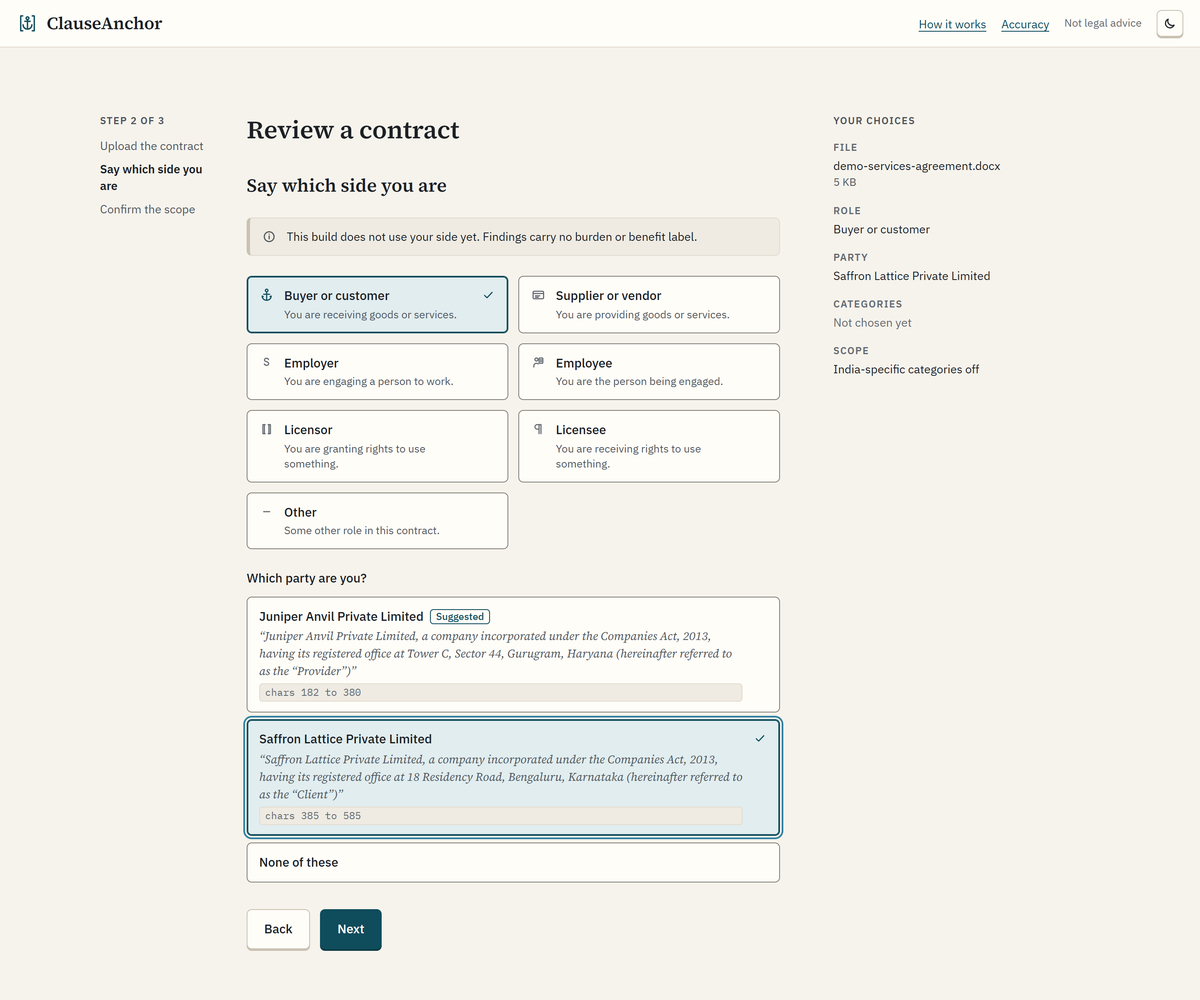
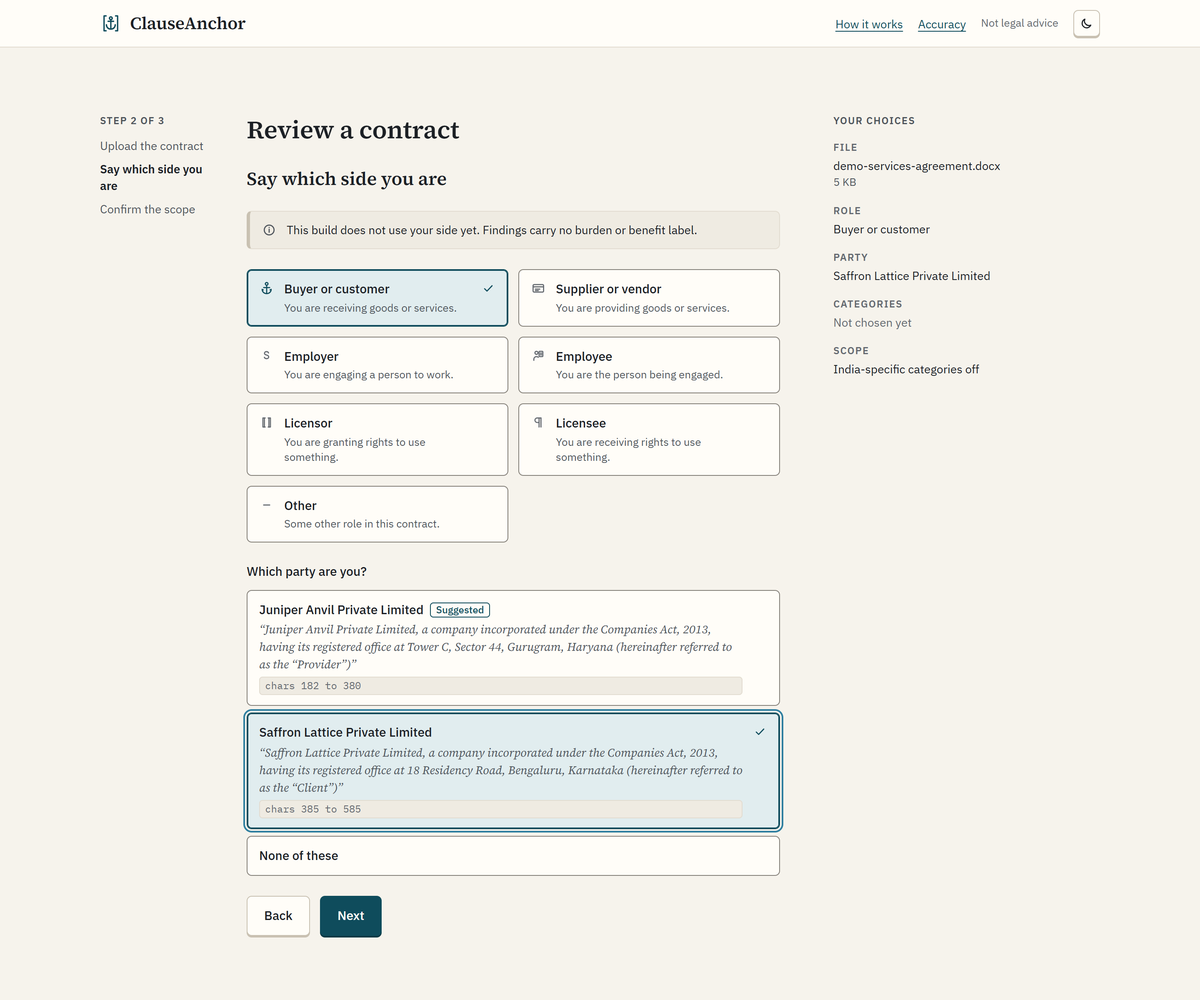
docs: retake the live README shots and record the deploy
Retake start, reader and reader-review from the redeployed app, update their alt text and captions, and record the image, the update and the scale rule Azure reports.

diff --git a/docs/app/BuildLog.md b/docs/app/BuildLog.md
@@ -4658,3 +4658,72 @@ Four, each by area, so no file lands in the wrong one (the first session's work 
 4. `docs: retake the README screenshots after the UI pass`, body `Retake landing and the social preview, add how-it-works, fix the counts.` Files: `README.md` and five images under `docs/assets/readme/`.
 
 Next action: Aryan runs the four commits in that order, then the image workflow and `az containerapp update` with the new SHA, then retakes the `start`, `reader` and `reader-review` shots against the redeployed app.
+
+## 2026-11-24: Part 4-B.3 close, the redeploy record and the live README shots
+
+Aryan's brief (`.handoff/live_retake_prompt.md`): retake the `start`, `reader` and `reader-review` shots against the redeployed app, update the README text for them, record what Azure reports for the scale rule, and record the deploy. `ml/`, `docs/ml/`, `backend/` and `frontend/` are unchanged. No `az` command ran, the live app was not changed, and the capture's upload was deleted at the end of its run.
+
+### Start
+
+- `git status --short` printed nothing and `git log --oneline -6` began at `5beecc9`, which is HEAD (`5beecc969c0b94ada4fe94eb59ce6e4291a656d1`), pushed. That matched the brief.
+- Before the launch I read `capture.mjs` and checked its page selectors against the redesigned sources (the step titles, the Start review button, the "24 of 46 selected" count, the category rows, the confirm dialog's Delete contract). The Next button was not read in the source, and the run showed it works. The Start summary aside is `hidden xl:block`, and the capture viewport is 1440 wide, so it shows. The script always took every live shot, so I added one flag.
+
+### What changed
+
+- `.handoff/readme_demo/capture.mjs` (ignored by git): `--reader-only` skips `landing`, `how-it-works` and the social preview and takes only `start`, `reader` and `reader-review`. It still loads the landing page first, which proves the new interface is up.
+- `docs/assets/readme/`: `start`, `reader` and `reader-review`, each in light and dark, retaken from the live app. The five other files have the same SHA-256 hashes before and after the run.
+- `README.md`: the alt text and caption of the three shots. The README carried no note about old shots, so none was removed.
+- `deploy/azure-containerapp.yaml`: a comment beside the scale rule. The rule itself is as Aryan created the app from it.
+- `docs/app/Architecture.md` (section 8.1, "Where it runs") and `docs/app/Deploy.md` (step 4): the same statement of what Azure reports.
+- `docs/app/Phases.md`: a "Deployed and retaken" paragraph under 4-B.3, the 4-B.1 retake item closed, and the 4-B.3 still-open line.
+- Not touched, because they are outside the brief: `FrontendDesign.md` 17.9, `SystemAudit.md`, and the earlier 4-B.3 entry above (history stays).
+
+### The deploy, as Aryan reported it from Cloud Shell
+
+None of this was measured here.
+
+- Image `ghcr.io/themegalodon55681/clauseanchor:5beecc969c0b94ada4fe94eb59ce6e4291a656d1`. The workflow reported 1672 MiB on disk and a peak of 1025 MiB of 4096, file cache included.
+- `az containerapp update` returned `provisioningState: Succeeded` and `runningStatus: Running`, revision `clauseanchor--latest`, 2 vCPU, 4Gi, `ephemeralStorage` 8Gi, the same startup and liveness probes, minReplicas 0, maxReplicas 1.
+- `/api/v1/ready` answered 200 on the first try. `/samples/fictional-services-agreement.docx` answered `HTTP/2 200` with `content-type: application/vnd.openxmlformats-officedocument.wordprocessingml.document`. `/` returned the page titled ClauseAnchor.
+- Scale rule: Azure reports name `http-scaler` and an empty `concurrentRequests`. The spec, `Architecture.md` and `Deploy.md` said `http-scale` at 10. With a maximum of 1 replica the rule only wakes the app from zero. The docs do not say why Azure reports it this way, because that is not known.
+
+### The retake
+
+- `node .handoff/readme_demo/capture.mjs --reader-only`, one run, one launch, with Aryan's approval. `/api/v1/ready` answered 200 at 0 s (the app was awake). The fictional agreement uploaded, the 24-category review finished after 89 s, and the run took 107 s in all. Both DELETE requests answered 204. Console errors: 0.
+- Sizes: `start` 312,136 (dark) and 309,475 (light) bytes, `reader` 693,917 and 690,706, `reader-review` 585,583 and 584,554. The folder holds 11 files and 4,863,387 bytes, the largest 693,917.
+- Every new image was opened. Each shows the new interface, and none shows a loading or cold-start screen, an error, or cut-off content. Only the fictional agreement appears. `start` is step 2 of 3 with Buyer or customer and Saffron Lattice Private Limited selected, and the summary beside it lists the file, role, party, categories and scope. `reader` is Non-Compete, passage 1 of 2, characters 3124 to 3336. `reader-review` is Governing Law, clause 10.1, characters 5804 to 5852, which is 48 characters, the length of the quoted sentence. Both Reader shots show Needs a lawyer and Confidence not validated.
+- Seen and left alone: the Reader band reads "Processing incomplete" and "Some categories could not be finished. They are listed as Unavailable.", while the count beside it says 24 need a lawyer and none is Unavailable. The 10 November shots had the same band. I did not look into the cause and changed nothing.
+
+### Reviews
+
+- Jury of two readings, one verdict. Recruiter at 30 seconds: the captions carry the message (24 categories reviewed, all Needs a lawyer, none Found, offsets quoted; a side and a party that this build does not use yet). The alt text is not on screen, so the captions have to stand alone, and they do. Miss: the "Processing incomplete" band sits next to a count that shows nothing Unavailable. Frontend engineer, checking each alt text and caption against its image: seven roles, two detected parties, the step list, the summary items, the 24 and 0 counts, the amber note, clause 10.1 and both offset pairs all match what is drawn. Same miss. Verdict: ship, with the band recorded and not changed.
+- Over-engineering review of the diff: two cuts applied to the new `Phases.md` paragraph (a guess about what the two DELETE requests were, and a wrong pointer to where the old-shots note lived). Kept: the flag as one `if` around the three shots (the smallest change that skips them), and the paragraph itself, because the brief asks for each fact in it.
+- The copy passes (copywriting, copy-editing, stop-slop) ran in that order over the six README strings. Long clauses became short sentences, "are picked" became "you pick", the 24-category count and the amber note were added, and each caption now says what its image shows.
+
+### Checks
+
+| Check | Result |
+|---|---|
+| Attribution scrub (Rules section 1, as written) | no output. The same pattern over `README.md` and `deploy/azure-containerapp.yaml`: no output |
+| Tool-name grep | no output on the README, the backend, the spec file and the lines added to the docs outside this file |
+| Dash scan, U+2010 to U+2015 and U+2212 | control file: 1 hit. 0 hits on `README.md`, the spec file, `Architecture.md`, `Deploy.md`, `Phases.md` and `capture.mjs`, and 0 on this file after the entry was written |
+| Backend tests that read the docs (`test_docs.py`, `test_catalogue.py`, `test_real_catalogue.py`, `test_openapi_export.py`, `test_frontend.py`) | 71 passed, 1 warning |
+| Full backend and frontend suites | not run, because nothing under `backend/` or `frontend/` changed |
+
+Line ends: LF in `README.md`, `Deploy.md` and the spec file, CRLF in `BuildLog.md`, `Phases.md` and `Architecture.md`. Each edit kept its file's ending.
+
+### Processes
+
+- One headless Edge launch with a fresh throwaway profile under `.handoff/readme_demo/`, extensions and sync off, and no local server. 18 processes started and 18 closed (through the DevTools close, none left), and the profile folder was removed. The ledger is `.handoff/readme_demo/ledger.txt`. Aryan's own 11 Edge processes were running before and after, and none is in the ledger.
+- `node --check`, `pytest` and the greps ran in the foreground and exited by themselves. Git was read-only: `status`, `diff`, `log` and `check-ignore`.
+
+### Not changed, and still open
+
+- Still open from 17.9, unchanged: browser proof for the two kinds of axe result that need review (the highlight marks, and the footer at 375), and the hero's height across the three examples and layout shift for input-driven changes, neither measured.
+- Left as written, outside the brief: `SystemAudit.md` section 9 still says none of the UI pass was seen against the live server and calls the rule "the 10 request scale rule" (lines 323, 372 and 409), and the "README shots" paragraph at the end of `FrontendDesign.md` 17.9 still says the shots wait for the redeploy.
+
+### Suggested commit
+
+`docs: retake the live README shots and record the deploy`, body `Retake start, reader and reader-review from the redeployed app, update their alt text and captions, record the image, the update and the scale rule Azure reports.` Files: `README.md`, `deploy/azure-containerapp.yaml`, `docs/app/Architecture.md`, `docs/app/BuildLog.md`, `docs/app/Deploy.md`, `docs/app/Phases.md` and the six images `start`, `reader` and `reader-review` under `docs/assets/readme/`.
+
+Next action: Aryan reads the README on GitHub, commits, and pushes. Then 4-C.

diff --git a/docs/app/Phases.md b/docs/app/Phases.md
@@ -625,7 +625,7 @@ Needs: the frontend on the real client, and Tanishq's real analyzer and artifact
   - The landing hero fixture shows a Found Non-Compete, but the live analyzer returns only Needs a lawyer, because automatic acceptance is off (`docs/ml/ReleaseHandoff.md`). Closed in 4-B.3: every hero example reads Needs a lawyer with Confidence not validated (`FrontendDesign.md` 17.9, DU).
   - The app's Credits section and the Accuracy footer name OpenNyaya, NyayaAnumana and InLegalBERT, which the current RoBERTa-base model does not use. Closed in 4-B.3: the credits and the footer name CUAD and RoBERTa-base only.
   - `.handoff/readme_demo/capture.mjs` has an untested fix for its process query, which matched its own PowerShell. Closed in 4-B.3: the run on 24 November 2026 started 16 processes, closed 16 and left none.
-  - Retake all README screenshots after the UI pass, add `how-it-works`, and drop `accuracy` from the capture list. Closed in part in 4-B.3: `landing`, `social-preview` and `how-it-works` are retaken. `start`, `reader` and `reader-review` need the live app and wait for the redeploy.
+  - Retake all README screenshots after the UI pass, add `how-it-works`, and drop `accuracy` from the capture list. Closed in 4-B.3: `landing`, `social-preview` and `how-it-works` were retaken on 24 November 2026 from a local preview, and `start`, `reader` and `reader-review` the same day from the redeployed live app.
 - [x] **4-B.2** System audit against scale, security, cost and failure
   `docs: audit the system against scale, security, cost and failure`
   A docs part with two small fixes, after 4-B.1 (Aryan, 11 November 2026). `docs/app/SystemAudit.md` holds six audits of the system as built and deployed: the data model, security, vendor lock-in, cost, failure under a sudden spike, and completion against stability at 100 times the load. Each has a jury round (a Contrarian, a First-Principles engineer, an Attacker, an SRE and a Cost owner), a "what would break at scale" round that ran until it found nothing new, and a verdict. A triage of 20 findings (SA1 to SA20) closes the file. Nothing was installed, no server and no browser ran, the live URL was not load tested, and `ml/` and `docs/ml/` did not change. Prices and limits were read as text from Microsoft's pages and price list and from GitHub's docs on 11 November 2026, and each figure in the audit is tagged measured, cited or estimated.
@@ -667,8 +667,17 @@ Needs: the frontend on the real client, and Tanishq's real analyzer and artifact
   Numbers. Frontend tests went from 136 (after 4-B.2) to 170, and backend tests from 1,787 to 1,788. `pnpm typecheck`, `pnpm build` and `pnpm check:dist` pass (36 files, with the sample agreement in `dist/samples/`). axe: 0 violations in 110 runs (11 states at five widths in both themes). Some runs carry axe results that need review, recorded in 17.9 with their causes and the contrast tests that cover them. At 1280 the landing page is 5,129 px tall against 6,046. At 375 it is 8,038 against 7,625. Screenshots: `frontend/.screens/4-B.3/before/` (154) and `after/` (168), both ignored by git.
   Deviations from the plan, each in 17.9: the press scale on buttons is cut, a progress bar is added, the dropzone grows with a scale and not a colour change, step rows are ruled at every width, and four targets moved (the ledger's text width, the text to row edge gap, the two columns ending 78 px apart, and the dropzone to Next gap).
   Closed from earlier parts: the hero and credits items under 4-B.1 (above), SA3, SA4 and SA16 (built) and SA10 (Aryan's reading of Cost Management, in `SystemAudit.md`). SA17 is covered in part.
-  Still open after this part. Browser proof for the two kinds of axe result that need review (the highlight marks, and the footer at 375). The hero's height across the three examples, and layout shift for input-driven changes, neither measured. The `start`, `reader` and `reader-review` README shots, which wait for the redeploy. The built-in sample mode stays with 3-C.
+  Still open after this part. Browser proof for the two kinds of axe result that need review (the highlight marks, and the footer at 375). The hero's height across the three examples, and layout shift for input-driven changes, neither measured. The built-in sample mode stays with 3-C. The `start`, `reader` and `reader-review` README shots, which waited for the redeploy, are retaken (below).
   Decided by Aryan on 24 November 2026: the ledger stays at every width, 375 included (about 188 px on the 375 page), and the `SAMPLE_MODE_ONLY` message stays as it is, because it shows only when the server runs in sample mode.
+  **Deployed and retaken (24 November 2026).** The image is the build of commit `5beecc9`, and Aryan updated the live app from Cloud Shell.
+  - Image `ghcr.io/themegalodon55681/clauseanchor:5beecc969c0b94ada4fe94eb59ce6e4291a656d1`. The workflow reported 1672 MiB on disk and a peak of 1025 MiB of 4096, file cache included. The first deployment (`c26236b`) reported 1671 MiB and 1026 MiB.
+  - `az containerapp update` returned `provisioningState: Succeeded` and `runningStatus: Running`, revision `clauseanchor--latest`, 2 vCPU, 4Gi, `ephemeralStorage` 8Gi, the same startup and liveness probes, minReplicas 0 and maxReplicas 1.
+  - Three checks from Cloud Shell right after. `/api/v1/ready` answered 200 on the first try. `/samples/fictional-services-agreement.docx` answered `HTTP/2 200` with `content-type: application/vnd.openxmlformats-officedocument.wordprocessingml.document`, so the `.docx` fix reached the live site. `/` returned the page titled ClauseAnchor.
+  - The scale rule. Azure reports it as name `http-scaler` with `concurrentRequests` empty. `deploy/azure-containerapp.yaml`, `Architecture.md` section 8.1 and `Deploy.md` step 4 named it `http-scale` at 10 concurrent requests. The spec stays as it was created from, and each of the three files now records what Azure reports. With a maximum of 1 replica the rule only wakes the app from zero. Why Azure reports it this way is not known.
+  - README shots. `node .handoff/readme_demo/capture.mjs --reader-only` ran once, with Aryan's approval for that one launch. The flag is new: it skips `landing`, `how-it-works` and `social-preview`, and those five files have the same hashes after the run. `/api/v1/ready` answered 200 on the first poll, because the app was awake. The run uploaded the fictional agreement, reviewed 24 categories in 89 seconds and took `start` (step 2 of 3), `reader` (Non-Compete, passage 1 of 2, characters 3124 to 3336) and `reader-review` (Governing Law, characters 5804 to 5852), each in light and dark. It then deleted the document, and both DELETE requests answered 204. Console errors: 0. Processes: 18 started, 18 closed, none left, and Aryan's own 11 Edge processes were running before and after.
+  - The six new files are 312,136 and 309,475 bytes (`start`, dark and light), 693,917 and 690,706 (`reader`) and 585,583 and 584,554 (`reader-review`). `docs/assets/readme/` holds 11 files and 4,863,387 bytes, and no file is over 1 MB. Each image was opened and checked: the new interface, no loading or cold-start screen, no error, nothing cut off, and only the fictional agreement. The Reader shots show Needs a lawyer and Confidence not validated. The README alt texts and captions of the three shots were rewritten to match. The README carried no note about old shots, so none was removed.
+  - Seen and left alone. The Reader band reads "Processing incomplete" and "Some categories could not be finished. They are listed as Unavailable.", while the count beside it says 24 need a lawyer and none is Unavailable. The 10 November shots carried the same band (status partial). Its cause was not examined, and nothing changed.
+  - Still open from 17.9, unchanged. Browser proof for the two kinds of axe result that need review (the highlight marks, and the footer at 375). The hero's height across the three examples, and layout shift for input-driven changes, neither measured.
 - [ ] **4-C** End-to-end check on a public contract, CPU benchmark
   `test(backend): add end-to-end review check and CPU benchmark`
   4-C1 took the adapter, the swap and the `dist` check out of this part, and decided R17 (one origin, no CORS). The paragraphs below stay as the record of what the adapter had to change. What 4-C still owns: R6, the CPU benchmark, and the eight scope cases with the real model.

diff --git a/README.md b/README.md
@@ -52,11 +52,11 @@ The app scales to zero, so the first visit after a quiet spell takes 1 to 3 minu
   <a href="https://clauseanchor.icystone-c7631062.centralindia.azurecontainerapps.io/">
     <picture>
       <source media="(prefers-color-scheme: dark)" srcset="docs/assets/readme/reader-dark.png">
-      <img src="docs/assets/readme/reader-light.png" alt="ClauseAnchor Reader on a fictional services agreement: the Non-Compete category selected, passage 1 of 2 quoted from the contract at characters 3124 to 3336 under a Needs a lawyer label with Confidence not validated, the contract sheet with underlined passages and a findings ruler beside it, and the category list on the left" width="95%">
+      <img src="docs/assets/readme/reader-light.png" alt="ClauseAnchor Reader on the fictional file demo-services-agreement.docx after a review of 24 categories. The left column holds a scope note, a count of 0 found and 24 that need a lawyer, and the category list. The contract sheet shows underlined passages with a findings ruler beside it. The detail panel shows Non-Compete, passage 1 of 2 at characters 3124 to 3336, under a Needs a lawyer label with Confidence not validated. An amber note says processing was incomplete." width="95%">
     </picture>
   </a>
 </p>
-<p align="center"><em>The Reader on a fictional services agreement, with the Non-Compete passage quoted from the contract and marked Needs a lawyer.</em></p>
+<p align="center"><em>The Reader after a 24-category review of a fictional agreement. All 24 categories need a lawyer and none is Found. The panel quotes the Non-Compete passage with its offsets.</em></p>
 
 A contract can run to dozens of pages, and CUAD defines 41 clause types to look for in one, from renewal terms to liability caps. A summary can invent text. A tool that stays silent about what it missed reads like a clean bill of health. ClauseAnchor marks where a listed clause type may be and quotes the exact words with their character offsets. When the evidence falls short of a validated threshold, it says Needs a lawyer.
 
@@ -76,21 +76,21 @@ Indian commercial contracts are the target. The catalogue carries five India ext
   <a href="https://clauseanchor.icystone-c7631062.centralindia.azurecontainerapps.io/">
     <picture>
       <source media="(prefers-color-scheme: dark)" srcset="docs/assets/readme/start-dark.png">
-      <img src="docs/assets/readme/start-light.png" alt="ClauseAnchor start flow, step 2 of 3, with the fictional file demo-services-agreement.docx uploaded: Buyer or customer chosen as the side, Saffron Lattice Private Limited chosen from two detected parties, a note that this build does not use the side yet, and a summary of the choices on the right" width="70%">
+      <img src="docs/assets/readme/start-light.png" alt="ClauseAnchor start flow, step 2 of 3, with the fictional file demo-services-agreement.docx uploaded. A step list runs down the left, and a note says this build does not use your side yet. Seven roles are listed with Buyer or customer selected, and two detected parties with Saffron Lattice Private Limited selected. A Your choices summary on the right lists the file, role, party, categories and scope." width="70%">
     </picture>
   </a>
 </p>
-<p align="center"><em>Step 2 of 3 on the fictional file: a side and a party are picked, and this build does not use them yet.</em></p>
+<p align="center"><em>Step 2 of 3 on the fictional file: you pick a side and a party, and this build does not use them yet.</em></p>
 
 <p align="center">
   <a href="https://clauseanchor.icystone-c7631062.centralindia.azurecontainerapps.io/">
     <picture>
       <source media="(prefers-color-scheme: dark)" srcset="docs/assets/readme/reader-review-dark.png">
-      <img src="docs/assets/readme/reader-review-light.png" alt="ClauseAnchor Reader on the same fictional agreement: the Governing Law category selected, a one-sentence passage at characters 5804 to 5852 under a Needs a lawyer label, the note that the passage may be the clause but did not reach the validated threshold, and Confidence not validated below it" width="95%">
+      <img src="docs/assets/readme/reader-review-light.png" alt="ClauseAnchor Reader on the same fictional agreement. The Governing Law category is selected, and clause 10.1 is marked in the sheet. The detail panel quotes its one sentence at characters 5804 to 5852 under a Needs a lawyer label, then a note that the passage may be the clause but did not reach the validated threshold, then Confidence not validated." width="95%">
     </picture>
   </a>
 </p>
-<p align="center"><em>Governing Law selected at characters 5804 to 5852, with the quoted evidence, the Needs a lawyer label and the candidate-only wording.</em></p>
+<p align="center"><em>Governing Law selected: the panel quotes clause 10.1 at characters 5804 to 5852, under the Needs a lawyer label and the candidate-only wording.</em></p>
 
 ## Design
 

diff --git a/docs/app/Architecture.md b/docs/app/Architecture.md
@@ -357,7 +357,7 @@ flowchart LR
 
 | Decision | Choice | Reason |
 |---|---|---|
-| Where it runs | Azure Container Apps in Central India, on the Azure for Students subscription, in the resource group `clauseanchor-rg`. The environment `clauseanchor-env` is on Consumption billing, and Azure reports its mode as Express. The app `clauseanchor` has 2 vCPU and 4 GiB, minimum 0 and maximum 1 replica, one HTTP scale rule at 10 concurrent requests, and external HTTPS-only ingress to port 8000. One revision is active at a time. It was created from Cloud Shell with a YAML spec (`deploy/azure-containerapp.yaml`), not in the portal | 4 GiB is the floor for real mode (`Phases.md`, 4-B, R22). The monthly free grant of 180,000 vCPU-seconds and 360,000 GiB-seconds covers about 25 running hours at this size, and the app sleeps when idle. One replica, because sessions live in the memory of one process. For the same reason a scale to zero or a restart ends every session, and a reader who sends no request for longer than the cool-down (300 s by default on Microsoft's scaling page, which does not say whether HTTP rules use it) can lose the session while the contract is still on screen (`SystemAudit.md` section 5). Express is a documented tier, checked on 10 November 2026: it scales to zero, runs single-revision rolling updates, and has no multiple revisions, custom KEDA scalers, sidecars or custom domains. None of that was measured on this app |
+| Where it runs | Azure Container Apps in Central India, on the Azure for Students subscription, in the resource group `clauseanchor-rg`. The environment `clauseanchor-env` is on Consumption billing, and Azure reports its mode as Express. The app `clauseanchor` has 2 vCPU and 4 GiB, minimum 0 and maximum 1 replica, one HTTP scale rule, and external HTTPS-only ingress to port 8000. The spec names the rule `http-scale` at 10 concurrent requests, and Azure reports the live rule as `http-scaler` with `concurrentRequests` empty (seen on 24 November 2026). At a maximum of 1 the rule only wakes the app from zero, so the difference does not matter. One revision is active at a time. It was created from Cloud Shell with a YAML spec (`deploy/azure-containerapp.yaml`), not in the portal | 4 GiB is the floor for real mode (`Phases.md`, 4-B, R22). The monthly free grant of 180,000 vCPU-seconds and 360,000 GiB-seconds covers about 25 running hours at this size, and the app sleeps when idle. One replica, because sessions live in the memory of one process. For the same reason a scale to zero or a restart ends every session, and a reader who sends no request for longer than the cool-down (300 s by default on Microsoft's scaling page, which does not say whether HTTP rules use it) can lose the session while the contract is still on screen (`SystemAudit.md` section 5). Express is a documented tier, checked on 10 November 2026: it scales to zero, runs single-revision rolling updates, and has no multiple revisions, custom KEDA scalers, sidecars or custom domains. None of that was measured on this app |
 | One origin | The image serves `frontend/dist` and `/api/v1` from one uvicorn process on port 8000 (section 2, "Serving the frontend"). The backend sets no CORS headers | R17, decided in 4-C1. No proxy and no second service to run or pay for |
 | Build | A Dockerfile with two stages. Stage 1 is `node:22-slim` with pnpm 10.34.3 (the versions the frontend was built with): `pnpm install --frozen-lockfile`, `pnpm build` and `pnpm check:dist`, so a build that holds the mock adapter cannot become an image. Stage 2 is `python:3.12-slim`: CPU torch 2.9.1 from the official CPU index, then `ml/requirements-inference.txt`, then `backend/requirements.txt` without its editable line and with `constraints.txt`, then `ml/` as a normal install. After the model folder is copied, a `RUN` step calls the core's `verify_bundle` and `runtime_versions` with the image's own settings, so a missing file or a wrong pin fails the build with its message | The core's own install steps (`docs/ml/ReleaseHandoff.md` section 3). The CPU wheel is installed first, so no CUDA build is fetched. `-e ../ml` has no place in an image. The build-time check is the first part of the check the analyzer runs when it loads, called with the values of the same variables, so the two agree unless a setting overrides those variables at run time (the Azure spec sets none). It writes no file, so the layer is empty |
 | Layout in the image | `/app/backend/app` (run from `/app/backend`), `/app/ml` (the API reads `ml/configs/catalogue.json` and `ml/fixtures` in place from here), `/app/model/clauseanchor_candidate_v0` and `/app/frontend-dist` | `DEFAULT_CATALOGUE_PATH` finds Tanishq's file from `config.py`, two folders up, so `ml/` keeps its place beside `backend/` |

diff --git a/docs/app/Deploy.md b/docs/app/Deploy.md
@@ -104,7 +104,7 @@ The commands use the names `clauseanchor-rg` for the resource group, `clauseanch
    az containerapp create -n clauseanchor -g clauseanchor-rg --yaml azure-containerapp.yaml
    ```
 
-What the file sets: 2 vCPU and 4 Gi of memory, external HTTPS ingress to port 8000, one revision at a time, and 0 to 1 replicas with one HTTP scale rule at 10 concurrent requests. It sets a startup probe on `/api/v1/ready` (about 330 seconds for the image pull and the model load) and a liveness probe on `/api/v1/health`, and no readiness probe. The file's comments give the reasons.
+What the file sets: 2 vCPU and 4 Gi of memory, external HTTPS ingress to port 8000, one revision at a time, and 0 to 1 replicas with one HTTP scale rule. The file names the rule `http-scale` at 10 concurrent requests, and on the Express environment Azure reports it as `http-scaler` with `concurrentRequests` empty (seen on 24 November 2026). At a maximum of 1 replica the rule only wakes the app from zero, so the difference does not matter. It sets a startup probe on `/api/v1/ready` (about 330 seconds for the image pull and the model load) and a liveness probe on `/api/v1/health`, and no readiness probe. The file's comments give the reasons.
 
 Keep the maximum at 1. Sessions live in the memory of one replica, so a second copy could not find them.
 
